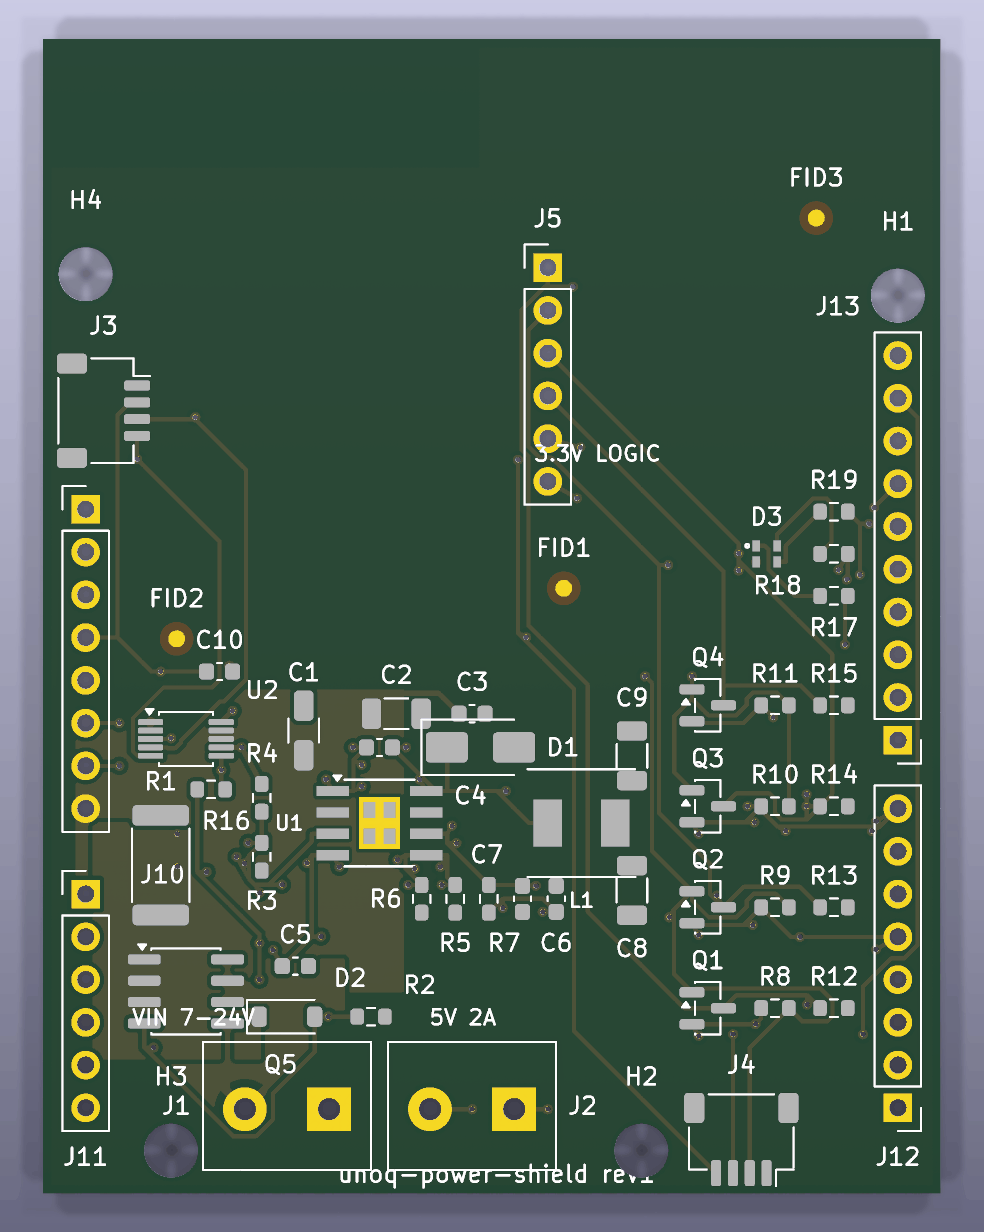
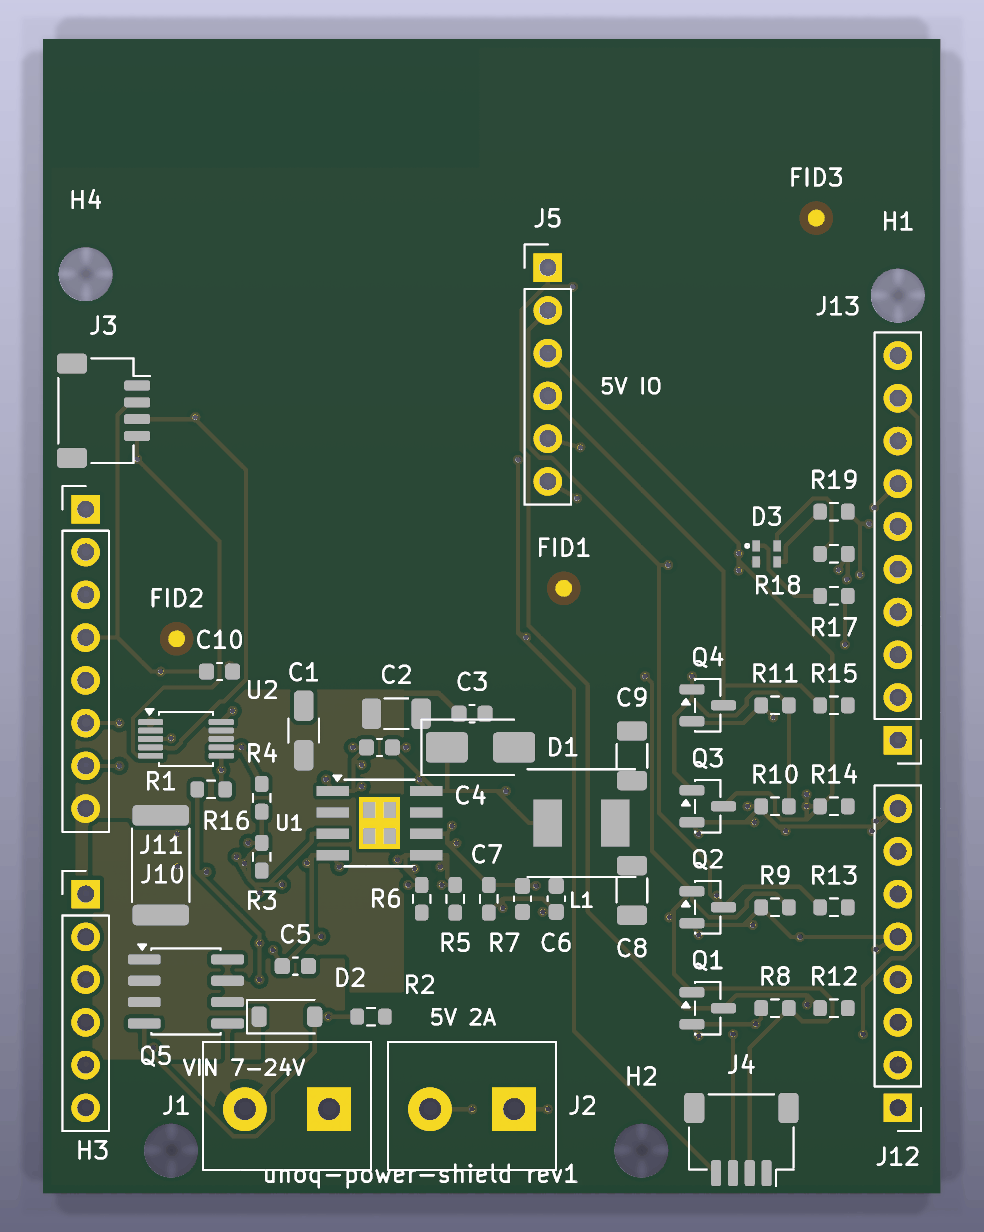
Fix four silk markings printing on pads; check for it in the pass
J5 is the 5 V side of the level shifters (HV1-HV4 + 5V + GND) and its
label read "3.3V LOGIC" — the wrong rail named on the one connector whose
entire purpose is that it is NOT the 3.3 V side. It also printed across
J5's own pads 5 and 6.

The position bug has a reusable cause: a KiCad connector footprint is
anchored at PIN 1, not at its body centre. J5's floorplan (30, 55) puts
pin 1 there and the pads run DOWN to y = 42.35, so a label written at
y = 44 — chosen to sit ~11 mm clear "below" a header assumed to be
centred at 55 — landed between pins 5 and 6.

Adding the check to silk_finish found that two more markings were also on
pads, neither of them noticed by eye:

  * "VIN 7-24V" sat on Q5.3-Q5.6 and D2.1
  * "unoq-power-shield rev1" ran across mounting hole H2's pad

Only "5V 2A" was clean. All four corrected in board.toml, each with the
old coordinates and the reason recorded next to it.

Why nothing caught this: validate_gerbers' silk rule tests containment
inside the outline and nothing else, and silk_finish — which owns a full
pad-mask obstacle model and uses it to reposition all 56 refdeses — only
ever validated [[silk.text]] entries for missing keys and a legal layer,
then placed them literally and treated them as FIXED obstacles that
everything else dodges. The one silk item a human types raw coordinates
for was the one item nothing checked. It now tests every declared marking
against the pad mask openings and warns, naming the board.toml entry.
[…]

diff --git a/scripts/build/silk_finish.py b/scripts/build/silk_finish.py
@@ -42,6 +42,14 @@ Two jobs:
    stripped on re-run — idempotent.  The markings are placed FIRST (fixed
    positions), so the Reference search above can dodge them.
 
+   Markings are never MOVED: their coordinates are the author's, and where a
+   label sits is the whole point of it.  That once made them the only silk on
+   the board nothing checked — every refdes was dodging pads while a declared
+   marking could sit straight on top of one.  So each declared marking is now
+   tested against the pad mask openings and a collision is WARNED about, by
+   the board.toml line that declared it.  It stays a warning, not a failure:
+   the pass cannot know a better position, only that this one prints badly.
+
 Run after placement is final.  Safe to re-run at any later point, including
 after routing — the search is deterministic, so re-running reproduces the
 same placements.  (Geometry is reproduced exactly; the KIIDs pcbnew mints
@@ -240,6 +248,9 @@ def main() -> int:
     group.SetName(GROUP_NAME)
     b.Add(group)
     added = []
+    # (item, "[[silk.text]] #n", label) for every marking the config declared,
+    # so a collision can be reported against the line the author wrote.
+    declared = []
 
     def text(s, x, y, size=1.0, thickness=None, bold=False, layer=None):
         t = pcbnew.PCB_TEXT(b)
@@ -277,29 +288,37 @@ def main() -> int:
         missing = [k for k in ("text", "x", "y") if k not in item]
         if missing:
             _lib.fail(f"{where} is missing " + ", ".join(missing))
-        text(
+        declared.append((
+            text(
+                str(item["text"]),
+                float(item["x"]),
+                float(item["y"]),
+                size=float(item.get("size", 1.0)),
+                thickness=item.get("thickness_mm"),
+                bold=bool(item.get("bold", False)),
+                layer=resolve_layer(item.get("layer"), f_silk, where),
+            ),
+            where,
             str(item["text"]),
-            float(item["x"]),
-            float(item["y"]),
-            size=float(item.get("size", 1.0)),
-            thickness=item.get("thickness_mm"),
-            bold=bool(item.get("bold", False)),
-            layer=resolve_layer(item.get("layer"), f_silk, where),
-        )
+        ))
 
     for i, item in enumerate(scfg.get("line", []) or []):
         where = f"[[silk.line]] #{i + 1}"
         missing = [k for k in ("x1", "y1", "x2", "y2") if k not in item]
         if missing:
             _lib.fail(f"{where} is missing " + ", ".join(missing))
-        line(
-            float(item["x1"]),
-            float(item["y1"]),
-            float(item["x2"]),
-            float(item["y2"]),
-            w=float(item.get("width", 0.2)),
-            layer=resolve_layer(item.get("layer"), f_silk, where),
-        )
+        declared.append((
+            line(
+                float(item["x1"]),
+                float(item["y1"]),
+                float(item["x2"]),
+                float(item["y2"]),
+                w=float(item.get("width", 0.2)),
+                layer=resolve_layer(item.get("layer"), f_silk, where),
+            ),
+            where,
+            "line",
+        ))
 
     for it in added:
         group.AddItem(it)
@@ -311,6 +330,7 @@ def main() -> int:
     # silk graphics.  Collected into plain tuples before any further use.
     footprints = sorted(list(b.GetFootprints()),
                         key=lambda f: natkey(f.GetReference()))
+    named_pads = []
     for fp in footprints:
         for pad in fp.Pads():
             pb = pad.GetBoundingBox()
@@ -318,6 +338,9 @@ def main() -> int:
             # A pad blocks silk on whichever side it appears; a through-hole
             # pad appears on both, so pads are registered layer-agnostic.
             obstacles.append((rect_of(pb), "pad", None))
+            named_pads.append(
+                (rect_of(pb), f"{fp.GetReference()}.{pad.GetNumber()}")
+            )
         for gi in fp.GraphicalItems():
             if gi.GetLayer() in silk_layers:
                 obstacles.append(
@@ -406,6 +429,26 @@ def main() -> int:
         return out
 
     warnings = []
+
+    # Declared markings are placed at the author's coordinates and are never
+    # moved (their position is meaningful — they label a specific part). That
+    # makes them the one silk item nothing else checks: the refdes search
+    # below treats them as fixed obstacles and dodges THEM. So test them
+    # against the pad mask openings here and say so plainly. A fab clips silk
+    # at the mask opening, so a marking over a pad prints broken and lands ink
+    # on a solderable surface.
+    for it, where, label in declared:
+        r = rect_of(it.GetBoundingBox())
+        hits = [name for prect, name in named_pads if rects_overlap(r, prect)]
+        if hits:
+            shown = ", ".join(sorted(set(hits))[:4])
+            more = "" if len(set(hits)) <= 4 else f" (+{len(set(hits)) - 4} more)"
+            warnings.append(
+                f'{where} "{label}" overlaps pad(s) {shown}{more} — the fab '
+                f"clips silk at the mask opening, so this prints broken and "
+                f"puts ink on a solderable pad. Move it in board.toml."
+            )
+
     fixed = 0
     for fp in footprints:
         flipped = fp.IsFlipped()

diff --git a/examples/unoq-power-shield/rev-1-plan.md b/examples/unoq-power-shield/rev-1-plan.md
@@ -191,6 +191,20 @@ Signed off 2026-08-30 except the two that can only close at order time.
       actually placed)
 - [x] README carries the CC BY-SA 4.0 attribution for Arduino's documents
 
+### Change after sign-off — 2026-09-02, silkscreen only
+
+Four `[[silk.text]]` markings were printing on pads, and J5's named the
+wrong rail (`3.3V LOGIC` on the 5 V side of the level shifters). Corrected
+in `board.toml`; `silk_finish` gained the pad-collision check that should
+have caught it — see that pass's docstring.
+
+Copper was NOT re-routed. Only `silk_finish` and the export were re-run,
+and the gerbers prove it: F.Cu, In1.Cu, In2.Cu, B.Cu, Edge.Cuts, both mask
+and both paste layers, and both drill files are **byte-identical** to the
+signed-off package (modulo the generation timestamp). `F_Silkscreen` is
+the only file that changed. Gates re-run on the new package: checker 14/0,
+DRC ×5 → 17 violations / 3 kinds / **0 unconnected**, unchanged.
+
 ## Residual DRC ledger — every remaining violation, explained
 
 17 items in 3 kinds, identical across 5 consecutive DRC runs. None is a

diff --git a/examples/unoq-power-shield/README.md b/examples/unoq-power-shield/README.md
@@ -7,9 +7,11 @@
 </tr>
 <tr>
 <td align="center"><em><strong>Populated</strong> — every footprint with its 3D
-model, <strong>including</strong> the stacking headers. Those ship <strong>DNP</strong>
-(see below), so a board back from the assembler will not look like this until
-you solder them in.</em></td>
+model. The four edge strips and J5 are drawn as plain male pin headers because
+that is what the footprint's model is; the real parts are <strong>stacking</strong>
+headers — female sockets on top, long tails passing down into the UNO Q — and
+they ship <strong>DNP</strong> (see below), so an assembled board arrives with
+those pads bare.</em></td>
 <td align="center"><em><strong>Bare</strong> — the PCB the fab builds from the
 gerbers: four-layer copper, mask, silk, and the three X2-tagged fiducials the
 assembler's vision system needs.</em></td>
